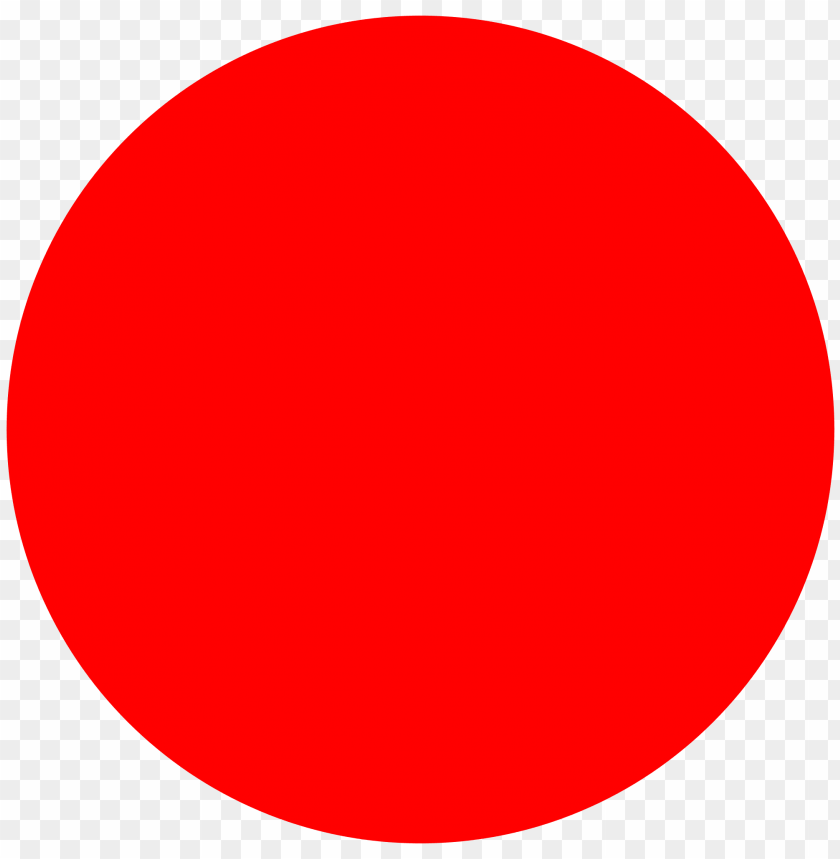
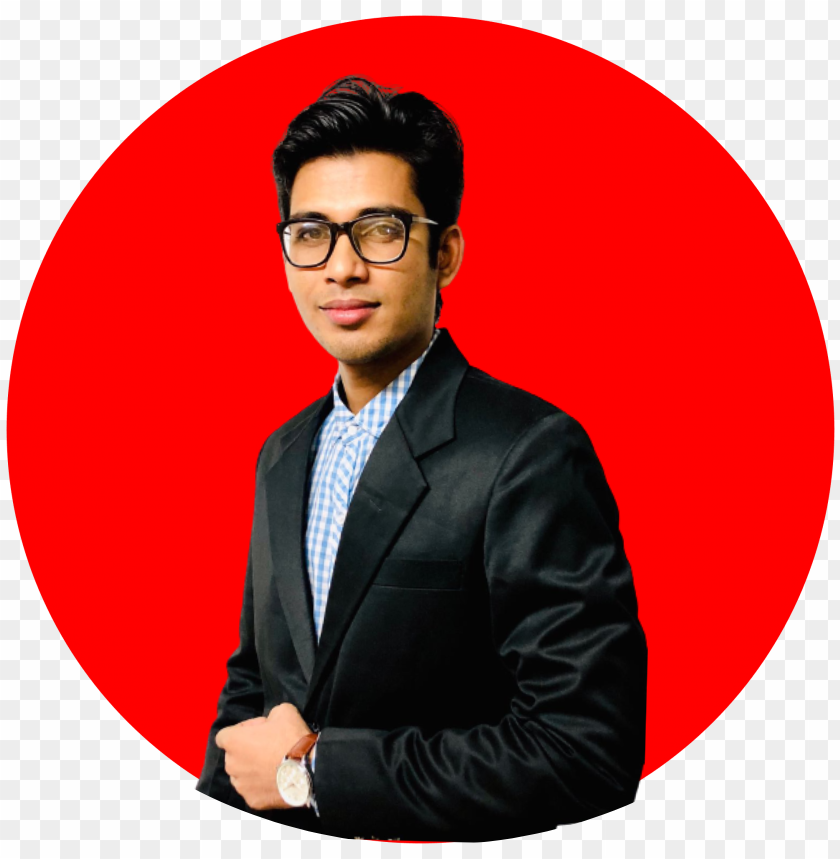
Updated website

diff --git a/index.html b/index.html
@@ -5,27 +5,47 @@
     <meta charset="UTF-8">
     <meta http-equiv="X-UA-Compatible" content="IE=edge">
     <meta name="viewport" content="width=device-width, initial-scale=1.0">
-    <title>My portfulio website</title>
-    <link rel="stylesheet" href="style.css">
+    <title>Sharif's portfulio website</title>
     <link rel="preconnect" href="https://fonts.googleapis.com">
     <link rel="preconnect" href="https://fonts.gstatic.com" crossorigin>
-    <link href="https://fonts.googleapis.com/css2?family=Luxurious+Roman&family=Mukta:wght@600&display=swap"
+    <link
+        href="https://fonts.googleapis.com/css2?family=Luxurious+Roman&family=Mukta:wght@600&family=Poppins:ital,wght@0,100;1,400;1,500&family=Roboto&display=swap"
         rel="stylesheet">
+    <link rel="stylesheet" href="style.css">
 </head>
 
 <body>
-    <section class=>
+    <section class="top-banner">
         <div class="half-width">
-            <h1>Welcome To </h1>
-            <h1> <span class="orange-color"> Sharif Imroz's</span> World</h1>
+            <h1>Welcome To</h1>
+            <h1> <span class="orange-color">Sharif Imroz</span>'s World!</h1>
             <h3>Software Engineer | AI Researcher</h3>
             <p>
-                This is my personal blog and You can find the details about me.
+                I am a software Engineer and a AI Researcher at Notheastern University, Shenyang, China. I have
+                compleated my
+                Bachelor degree in software Engineering from Nanjing University of Science and Technology. Rignt now I
+                am lookig for a research position for my phD in Medical Image Processing.
+
             </p>
-            <a class="link-button" target="blank" href="https://www.linkedin.com/in/sharif-imroz/">Hire Me</a>
+            <a class="link-button" target="_blank" href="https://www.linkedin.com/in/sharif-imroz/">Hire me</a>
         </div>
         <div class="half-width">
             <img src="orange-circle.jpg" alt="">
+        </div>
+    </section>
+    <section class="dream-big">
+        <div class="half-width">
+            <img src="red-circle.png" alt="">
+
+        </div>
+        <div class="half-width">
+            <h1>Dream-Big</h1>
+            <h2>Become a web Devloper</h2>
+            <p>
+                I want to be a software Engineer. Here is my first attempt towards this way. I dont know how far I can
+                go in this path.
+            </p>
+            <a class="link-button" target="_blank" href="">Download Resume</a>
         </div>
     </section>
 </body>

diff --git a/style.css b/style.css
@@ -1,32 +1,48 @@
-.orange-color{
-    color:orangered;
-}
 body{
     font-family: 'Luxurious Roman', cursive;
     font-family: 'Mukta', sans-serif;
+    font-family: 'Poppins', sans-serif;
+    font-family: 'Roboto', sans-serif;
+    margin: 0;
 }
+
 h1{
-    font: size 5000px;
+    font-size: 50px
+}
+.orange-color{
+    color:orangered;
 }
 section{
     display:flex;
+    padding-top: 2px;
+    margin-bottom: 52px;
 }
 .half-width{
-    width: 100%;
-    padding-left: 2%;
+    width:50%;
+    padding-left:5%;
 }
 .half-width img{
-    width:50%;
+    width:80%;
+    padding-left: 2%;
+    padding-top: 2%;
 }
 .link-button{
     text-decoration: none;
-    background-image: linear-gradient(orange,tomato);
-    padding:5px 5px; 
-    border-radius: 1px;
-    color:white;
-    font-weight:700px;
-
+    font-weight:700;
+    background-image:linear-gradient(orange, tomato);
+    padding: 8px 20px;
+    border-radius:10px;
+    color: rgb(157, 255, 0);
 }
 .top-banner{
-    background-image:url(background-images.jpg)
+    background-image:url(white.jpg);
+    background-repeat:no-repeat;
+}
+p{
+    padding-bottom:2%;
+}
+.dream-big{
+    background-image:url(bg-photo-2.png);
+    background-repeat:no-repeat;
+    background-position:right;
 }
